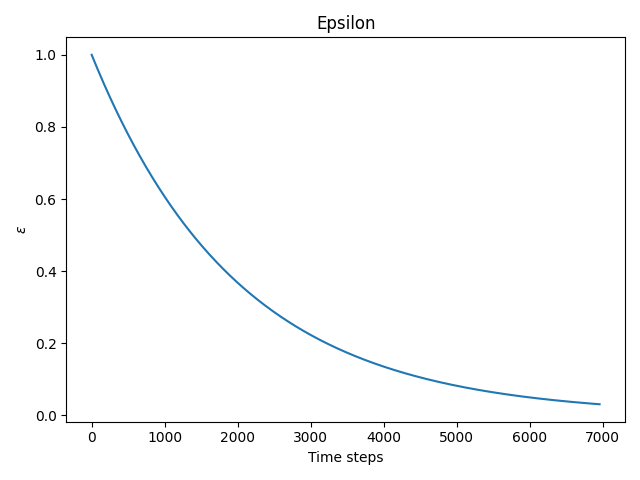
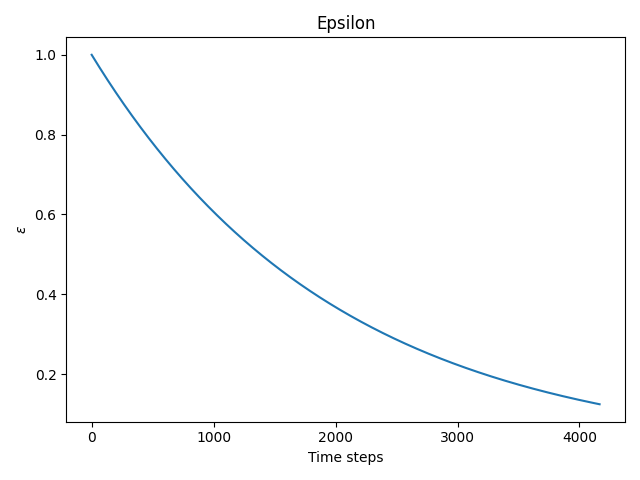
Implement equals method

diff --git a/src/actor.py b/src/actor.py
@@ -1,6 +1,8 @@
 import random
 from collections import defaultdict
+from typing import Tuple
 
+from data_classes import Action
 from visualize import Visualize
 
 
@@ -34,7 +36,7 @@ class Actor:
         trace_decay: float,
         epsilon: float,
         epsilon_decay: float,
-    ):
+    ) -> None:
         self.__learning_rate = learning_rate  # alpha
         self.__discount_factor = discount_factor  # gamma
         self.__trace_decay = trace_decay  # lambda
@@ -47,26 +49,24 @@ class Actor:
         self.__td_error_history = []
         self.reset_eligibilities()
 
-    def set_epsilon(self, epsilon):
-        Visualize.plot_epsilon(self.__epsilon_history)
-        Visualize.plot_td_error(self.__td_error_history)
+    def set_epsilon(self, epsilon) -> None:
         self.__epsilon = epsilon
 
-    def choose_action(self, state, possible_actions):
+    def choose_action(self, state, possible_actions: Tuple[Action]) -> Action:
         """Epsilon-greedy action selection function."""
         assert bool(possible_actions) is True, 'Possible actions cannot be empty'
 
-        def choose_uniform(possible_actions):
+        def choose_uniform(possible_actions) -> Action:
             return random.choice(possible_actions)
 
-        def choose_greedy(state, possible_actions):
+        def choose_greedy(state, possible_actions) -> Action:
             return max(possible_actions, key=lambda action: self.__policy[state][action])
 
         if random.random() < self.__epsilon:
             return choose_uniform(possible_actions)
         return choose_greedy(state, possible_actions)
 
-    def update(self, td_error):
+    def update(self, td_error) -> None:
         """
         Updates the policy function, then eligibilities for each state-action
         pair in the episode based on the td_error from the critic.
@@ -95,3 +95,7 @@ class Actor:
     def replace_eligibilities(self, state, action) -> None:
         """Replaces trace e(state) with 1.0"""
         self.__eligibilities[state][action] = 1.0
+
+    def plot_training_data(self) -> None:
+        Visualize.plot_epsilon(self.__epsilon_history)
+        Visualize.plot_td_error(self.__td_error_history)

diff --git a/src/critic/table_critic.py b/src/critic/table_critic.py
@@ -1,6 +1,8 @@
 import random
 from collections import defaultdict
 
+from visualize import Visualize
+
 from .critic import Critic
 
 
@@ -35,6 +37,7 @@ class TableCritic(Critic):
             trace_decay,  # lambda
         )
         self.__values = defaultdict(lambda: (random.random() - 0.5) * 0.02)  # V(s)
+        self.__value_history = []
         self.reset_eligibilities()
 
     def _get_value(self, state) -> float:
@@ -57,8 +60,13 @@ class TableCritic(Critic):
 
     def reset_eligibilities(self) -> None:
         """Sets all eligibilities to 0.0"""
+        if len(self.__values) != 0:
+            self.__value_history.append(self.__values[max(self.__values, key=lambda state: abs(self._get_value(state)))])
         self.__eligibilities = defaultdict(float)
 
     def replace_eligibilities(self, state) -> None:
         """Replaces trace e(state) with 1.0"""
         self.__eligibilities[state] = 1
+
+    def plot_training_data(self) -> None:
+        Visualize.plot_value_history(self.__value_history)

diff --git a/src/critic/critic.py b/src/critic/critic.py
@@ -15,7 +15,7 @@ class Critic(ABC):
 
     def td_error(self, current_state, successor_state, reward) -> float:
         """Temporal difference (TD) error. Same as lowercase delta"""
-        return reward + self._discount_factor * self._get_value(successor_state) - self._get_value(current_state)
+        return reward + self._discount_factor * (self._get_value(successor_state) if reward != 1 else 0) - self._get_value(current_state)
 
     @abstractmethod
     def _get_value(self, state) -> float:
@@ -31,4 +31,7 @@ class Critic(ABC):
 
     @abstractmethod
     def replace_eligibilities(self, state) -> None:
+        raise NotImplementedError
+
+    def plot_training_data(self):
         raise NotImplementedError

diff --git a/src/parameters.py b/src/parameters.py
@@ -1,7 +1,7 @@
 from data_classes import Shape
 
 # General
-EPISODES = 1000
+EPISODES = 600
 VISUALIZE_GAMES = True
 FRAME_DELAY = 1
 
@@ -13,17 +13,17 @@ HOLES = set([
 ])
 
 # Actor
-ACTOR_LEARNING_RATE = 1
-ACTOR_DISCOUNT_FACTOR = 0.99
-ACTOR_TRACE_DECAY = 0.99
+ACTOR_LEARNING_RATE = 0.8
+ACTOR_DISCOUNT_FACTOR = 0.85
+ACTOR_TRACE_DECAY = 0.85
 
 ACTOR_EPSILON = 1
 ACTOR_EPSILON_DECAY = 0.9995
 
 # Critic
-CRITIC_LEARNING_RATE = 1
-CRITIC_DISCOUNT_FACTOR = 0.99
-CRITIC_TRACE_DECAY = 0.99
+CRITIC_LEARNING_RATE = 0.01
+CRITIC_DISCOUNT_FACTOR = 0.85
+CRITIC_TRACE_DECAY = 0.85
 
-USE_TABLE_CRITIC = False
-CRITIC_NN_DIMENSIONS = (10, 5, 1)
+USE_TABLE_CRITIC = True
+CRITIC_NN_DIMENSIONS = (10, 20, 1)

diff --git a/src/visualize.py b/src/visualize.py
@@ -122,7 +122,6 @@ class Visualize:
         plt.title('Training data')
         plt.xlabel('Episode')
         plt.ylabel('Remaining Pegs')
-
         plt.plot(training_data, color='tab:blue')
 
         plt.tight_layout()
@@ -151,4 +150,16 @@ class Visualize:
 
         plt.tight_layout()
         plt.savefig('src/results/td_error.png')
+        plt.close()
+
+    @staticmethod
+    def plot_value_history(value_history):
+        plt.title('Max value')
+        plt.xlabel('Episode')
+        plt.ylabel('$\max_s V(s)$')
+
+        plt.plot(value_history, color='tab:blue')
+
+        plt.tight_layout()
+        plt.savefig('src/results/value_history.png')
         plt.close()

diff --git a/src/data_classes.py b/src/data_classes.py
@@ -21,7 +21,10 @@ class Action:
         return self.start_coordinates, self.adjacent_coordinates, self.landing_coordinates
 
     def __hash__(self):
-        return hash(self.start_coordinates) ^ hash(self.direction_vector)
+        return hash(self.start_coordinates) ^ hash(self.landing_coordinates)
+
+    def __eq__(self, other):
+        return (self.start_coordinates == other.start_coordinates) and (self.direction_vector == other.direction_vector)
 
 
 class Shape(Enum):

diff --git a/src/reinforcement_learner.py b/src/reinforcement_learner.py
@@ -72,8 +72,10 @@ class ReinforcementLearner:
             print('Episode:', episode + 1)
             self.__run_one_episode()
 
-        self.__simulated_world.exit()
         print('Training completed.')
+        self.__simulated_world.plot_training_data()
+        self.__actor.plot_training_data()
+        self.__critic.plot_training_data()
 
         if parameters.VISUALIZE_GAMES:
             print('Showing one episode with the greedy strategy.')

diff --git a/src/simulated_world.py b/src/simulated_world.py
@@ -43,6 +43,6 @@ class SimulatedWorld:
         self.__game_board.reset_game()
         return self.__grid_to_vector(), self.__game_board.get_all_legal_actions()
 
-    def exit(self) -> None:
+    def plot_training_data(self) -> None:
         self.__peg_history.append(self.__game_board.pegs_remaining())
         Visualize.plot_training_data(self.__peg_history[1:])

diff --git a/src/critic/nn_critic.py b/src/critic/nn_critic.py
@@ -101,3 +101,7 @@ class NNCritic(Critic):
     def replace_eligibilities(self, _) -> None:
         """Not used by NNCritic."""
         pass
+
+    def plot_training_data(self):
+        """Not used by NNCritic."""
+        pass
